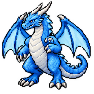
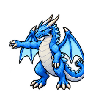
Rebuild dragon claw animation with simple continuous arm mechanics

diff --git a/design/enemies/dragon_frost/attack_claw/PROMPT.md b/design/enemies/dragon_frost/attack_claw/PROMPT.md
@@ -1,1 +1,1 @@
-Built-in image_gen. Base: ../attack/dragon_frost_1.png. Generate entire coherent ten-frame5x2 transparent sprite sheet of same blue frost dragon, small blue eyes and original detailed pixel-art. Frame1 normal,2 raising,3 raising,4 highest raising,5 downstroke begins,6 downstroke across chest,7 lowest downstroke,8 return early,9 return middle,10 return late near normal. Both forearms visible throughout, including frame7 continuous shoulder-elbow-wrist-claws. Whole character regenerated to match original reference face and proportions; SCREEN-RIGHT forearm attacks in every frame, remains on screen-right of belly; SCREEN-LEFT forearm remains idle and visible in every frame. No arm switching; grounded hindfeet, stable wings and tail. No fire, weapons, slash effects or pasted body parts. Export ten94x94 transparent PNGs in numeric order. Correction: planted feet baseline y91 in every frame, stable hips and head, original narrow blue-eyed face, frame10 is distinct late recovery, frame1 completes return. Preview frame delays(ms): 180,120,120,140,80,80,80,120,120,120.
+Built-in image_gen. Base: ../attack/dragon_frost_1.png. Generate entire coherent ten-frame5x2 transparent sprite sheet of same blue frost dragon, small blue eyes and original detailed pixel-art. Frame1 normal,2 raising,3 raising,4 highest raising,5 downstroke begins,6 downstroke across chest,7 lowest downstroke,8 return early,9 return middle,10 return late near normal. Both forearms visible throughout, including frame7 continuous shoulder-elbow-wrist-claws. Whole character regenerated to match original reference face and proportions; Rebuilt from scratch using original reference. SCREEN-LEFT arm swings with nearly straight elbow and aligned wrist; SCREEN-RIGHT arm remains idle. Same shoulder-arm-hand continuity all10, no broken joints; grounded hindfeet, stable wings and tail. No fire, weapons, slash effects or pasted body parts. Export ten94x94 transparent PNGs in numeric order. Correction: planted feet baseline y91 in every frame, stable hips and head, original narrow blue-eyed face, frame10 is distinct late recovery, frame1 completes return. Preview frame delays(ms): 180,120,120,140,80,80,80,120,120,120.
